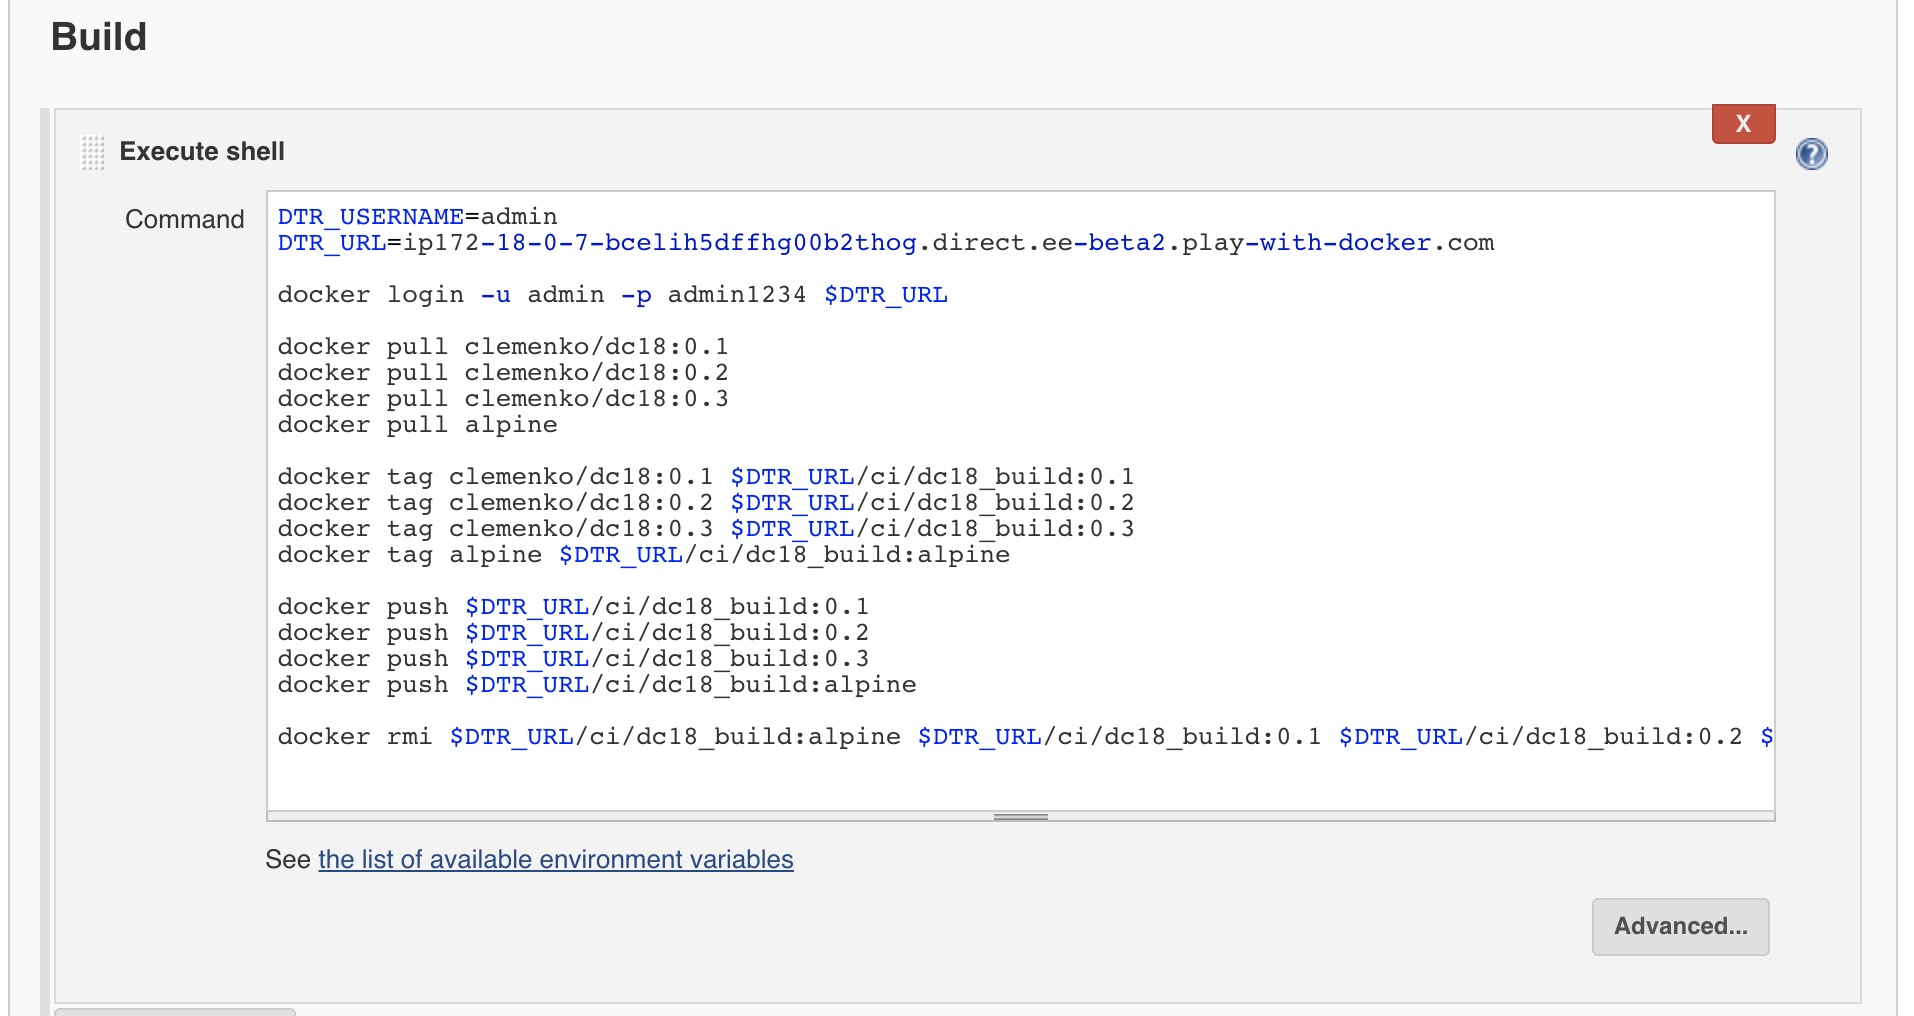
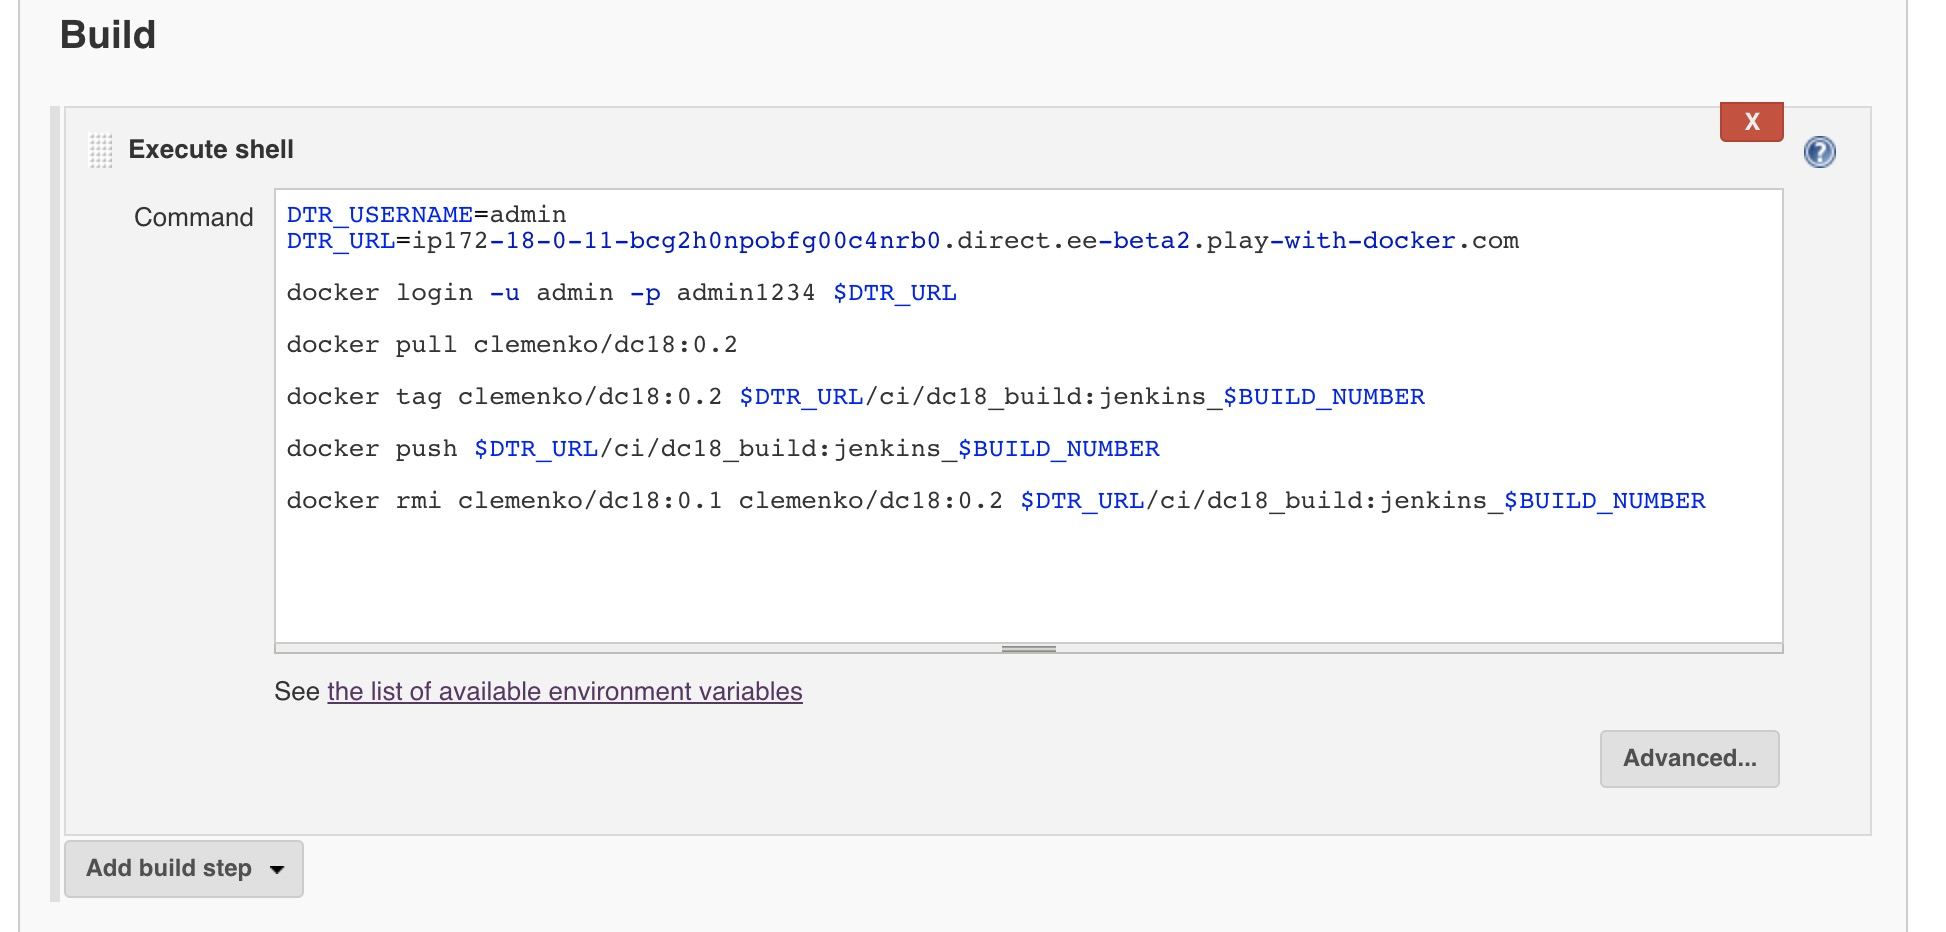
adding jenkins

diff --git a/readme.md b/readme.md
@@ -447,8 +447,18 @@ In order to automate we need to deploy Jenkins. If you want I can point you to a
 
 ### <a name="task9.1"></a>Task 9.1: Deploy Jenkins
 
-1.  Cat `dc18_supply_chain/scripts/jenkins.sh`. And take a look at the script. Also notice the script will check variables, and then runs `docker run`.
-2.  Then run `dc18_supply_chain/scripts/jenkins.sh`
+1.  Take a look at the script. Also notice the script will check variables, and then runs `docker run`.
+
+	```
+	cat ./dc18_supply_chain/scripts/jenkins.sh
+	```
+
+2.  Then run 
+
+	```
+	./dc18_supply_chain/scripts/jenkins.sh
+	```
+	
 3.  Pay attention to the url AND Jenkins password. It will look like : 
 
 	```
@@ -467,7 +477,7 @@ In order to automate we need to deploy Jenkins. If you want I can point you to a
 	=========================================================================================================
 	```
 
-4. Now navigate to http://$DOCS_URL:8080 by clicking on the url in the terminal. Let's start the setup of Jenkins and enter the password. It may take a minute or two for the `Unlock Jenkins` page to load. Be patient. 
+4. Now navigate to `http://$DOCS_URL:8080` by clicking on the url in the terminal. Let's start the setup of Jenkins and enter the password. It may take a minute or two for the `Unlock Jenkins` page to load. Be patient. 
 	![](img/jenkins_token.jpg)
 
 5. Click `Select plugins to install`. 
@@ -500,7 +510,9 @@ Now that we have Jenkins setup and running we can create our first "Item" or job
 	![](img/jenkins_build.jpg)
 
 4. You will now see a text box. Past the following build script into the text box. 
-	**Please replace the <DTR_URL> with your URL!**
+
+
+	**Please replace the <DTR_URL> with your URL! `echo $DTR_URL` <-- `worker3`** 
 	
 	```
 	DTR_USERNAME=admin
@@ -508,22 +520,13 @@ Now that we have Jenkins setup and running we can create our first "Item" or job
 
 	docker login -u admin -p admin1234 $DTR_URL
 
-	docker pull clemenko/dc18:0.1
 	docker pull clemenko/dc18:0.2
-	docker pull clemenko/dc18:0.3
-	docker pull alpine
 
-	docker tag clemenko/dc18:0.1 $DTR_URL/ci/dc18_build:jenkins_0.1
-	docker tag clemenko/dc18:0.2 $DTR_URL/ci/dc18_build:jenkins_0.2
-	docker tag clemenko/dc18:0.3 $DTR_URL/ci/dc18_build:jenkins_0.3
-	docker tag alpine $DTR_URL/ci/dc18_build:jenkins_alpine
+	docker tag clemenko/dc18:0.2 $DTR_URL/ci/dc18_build:jenkins_$BUILD_NUMBER
 
-	docker push $DTR_URL/ci/dc18_build:jenkins_0.1
-	docker push $DTR_URL/ci/dc18_build:jenkins_0.2
-	docker push $DTR_URL/ci/dc18_build:jenkins_0.3
-	docker push $DTR_URL/ci/dc18_build:jenkins_alpine
+	docker push $DTR_URL/ci/dc18_build:jenkins_$BUILD_NUMBER
 
-	docker rmi $DTR_URL/ci/dc18_build:jenkins_alpine $DTR_URL/ci/dc18_build:jenkins_0.1 $DTR_URL/ci/dc18_build:jenkins_0.2 $DTR_URL/ci/dc18_build:jenkins_0.3 alpine clemenko/dc18:0.3 clemenko/dc18:0.1 clemenko/dc18:0.2
+	docker rmi clemenko/dc18:0.1 clemenko/dc18:0.2 $DTR_URL/ci/dc18_build:jenkins_$BUILD_NUMBER
 	```
 	
 	It will look very similar to:
@@ -534,7 +537,29 @@ Now that we have Jenkins setup and running we can create our first "Item" or job
 5. Now let's run the build. Click `Build now`. 
 	![](img/jenkins_buildnow.jpg)
 
-### <a name="task9.2"></a>Task 9.2: Plumb Jenkins
+6. You can watch the output of the `Build` by clicking on the task number in the `Build History` and then selecting `Build Output`
+	![](img/jenkins_bhistory.jpg)
+	
+7. The console output will show you all the details from the script execution. 
+	![](img/jenkins_output.jpg)
+	
+8. Review the `ci`/`dc18` repository in DTR. You should now see a bunch of tags that have been promoted. 
+	![](img/automated_supply.jpg)
+
+### <a name="task9.2"></a>Task 9.2: Webhooks
+Now that we have Jenkins setup we can extend with webhooks. In Jenkins speak a webhook is simply a build trigger. Let's configure one. 
+
+1. Navigate to Jenkins and click on the project/item called `ci_dc18` and click on `Configure` on the left hand side. 
+	![](img/jenkins_configure.jpg)
+
+2. Then scroll down to `Build Triggers`. Check the radio button for `Trigger builds remotely` and enter an Authentication Token of `dc18_rocks`.  Scroll down and click `Save`. 
+	![](img/jenkins_triggers.jpg)
+	
+3. Now in your browser goto YOUR `http://$DOCS_URL:8080/job/ci_dc18/build?token=dc18_rocks`
+	
+	It should look like: `http://ip172-18-0-6-bcg2h0npobfg00c4nrb0.direct.ee-beta2.play-with-docker.com:8080/job/ci_dc18/build?token=dc18_rocks`
+	
+
 
 ## <a name="Conclusion"></a>Conclusion
 In this lab we been able to leverage the power of Docker Enterprise Edition for creating and using secrets. We also were able to create the foundation of a secure supply chain with Docker Image Scanning and Docker Content Trust.
